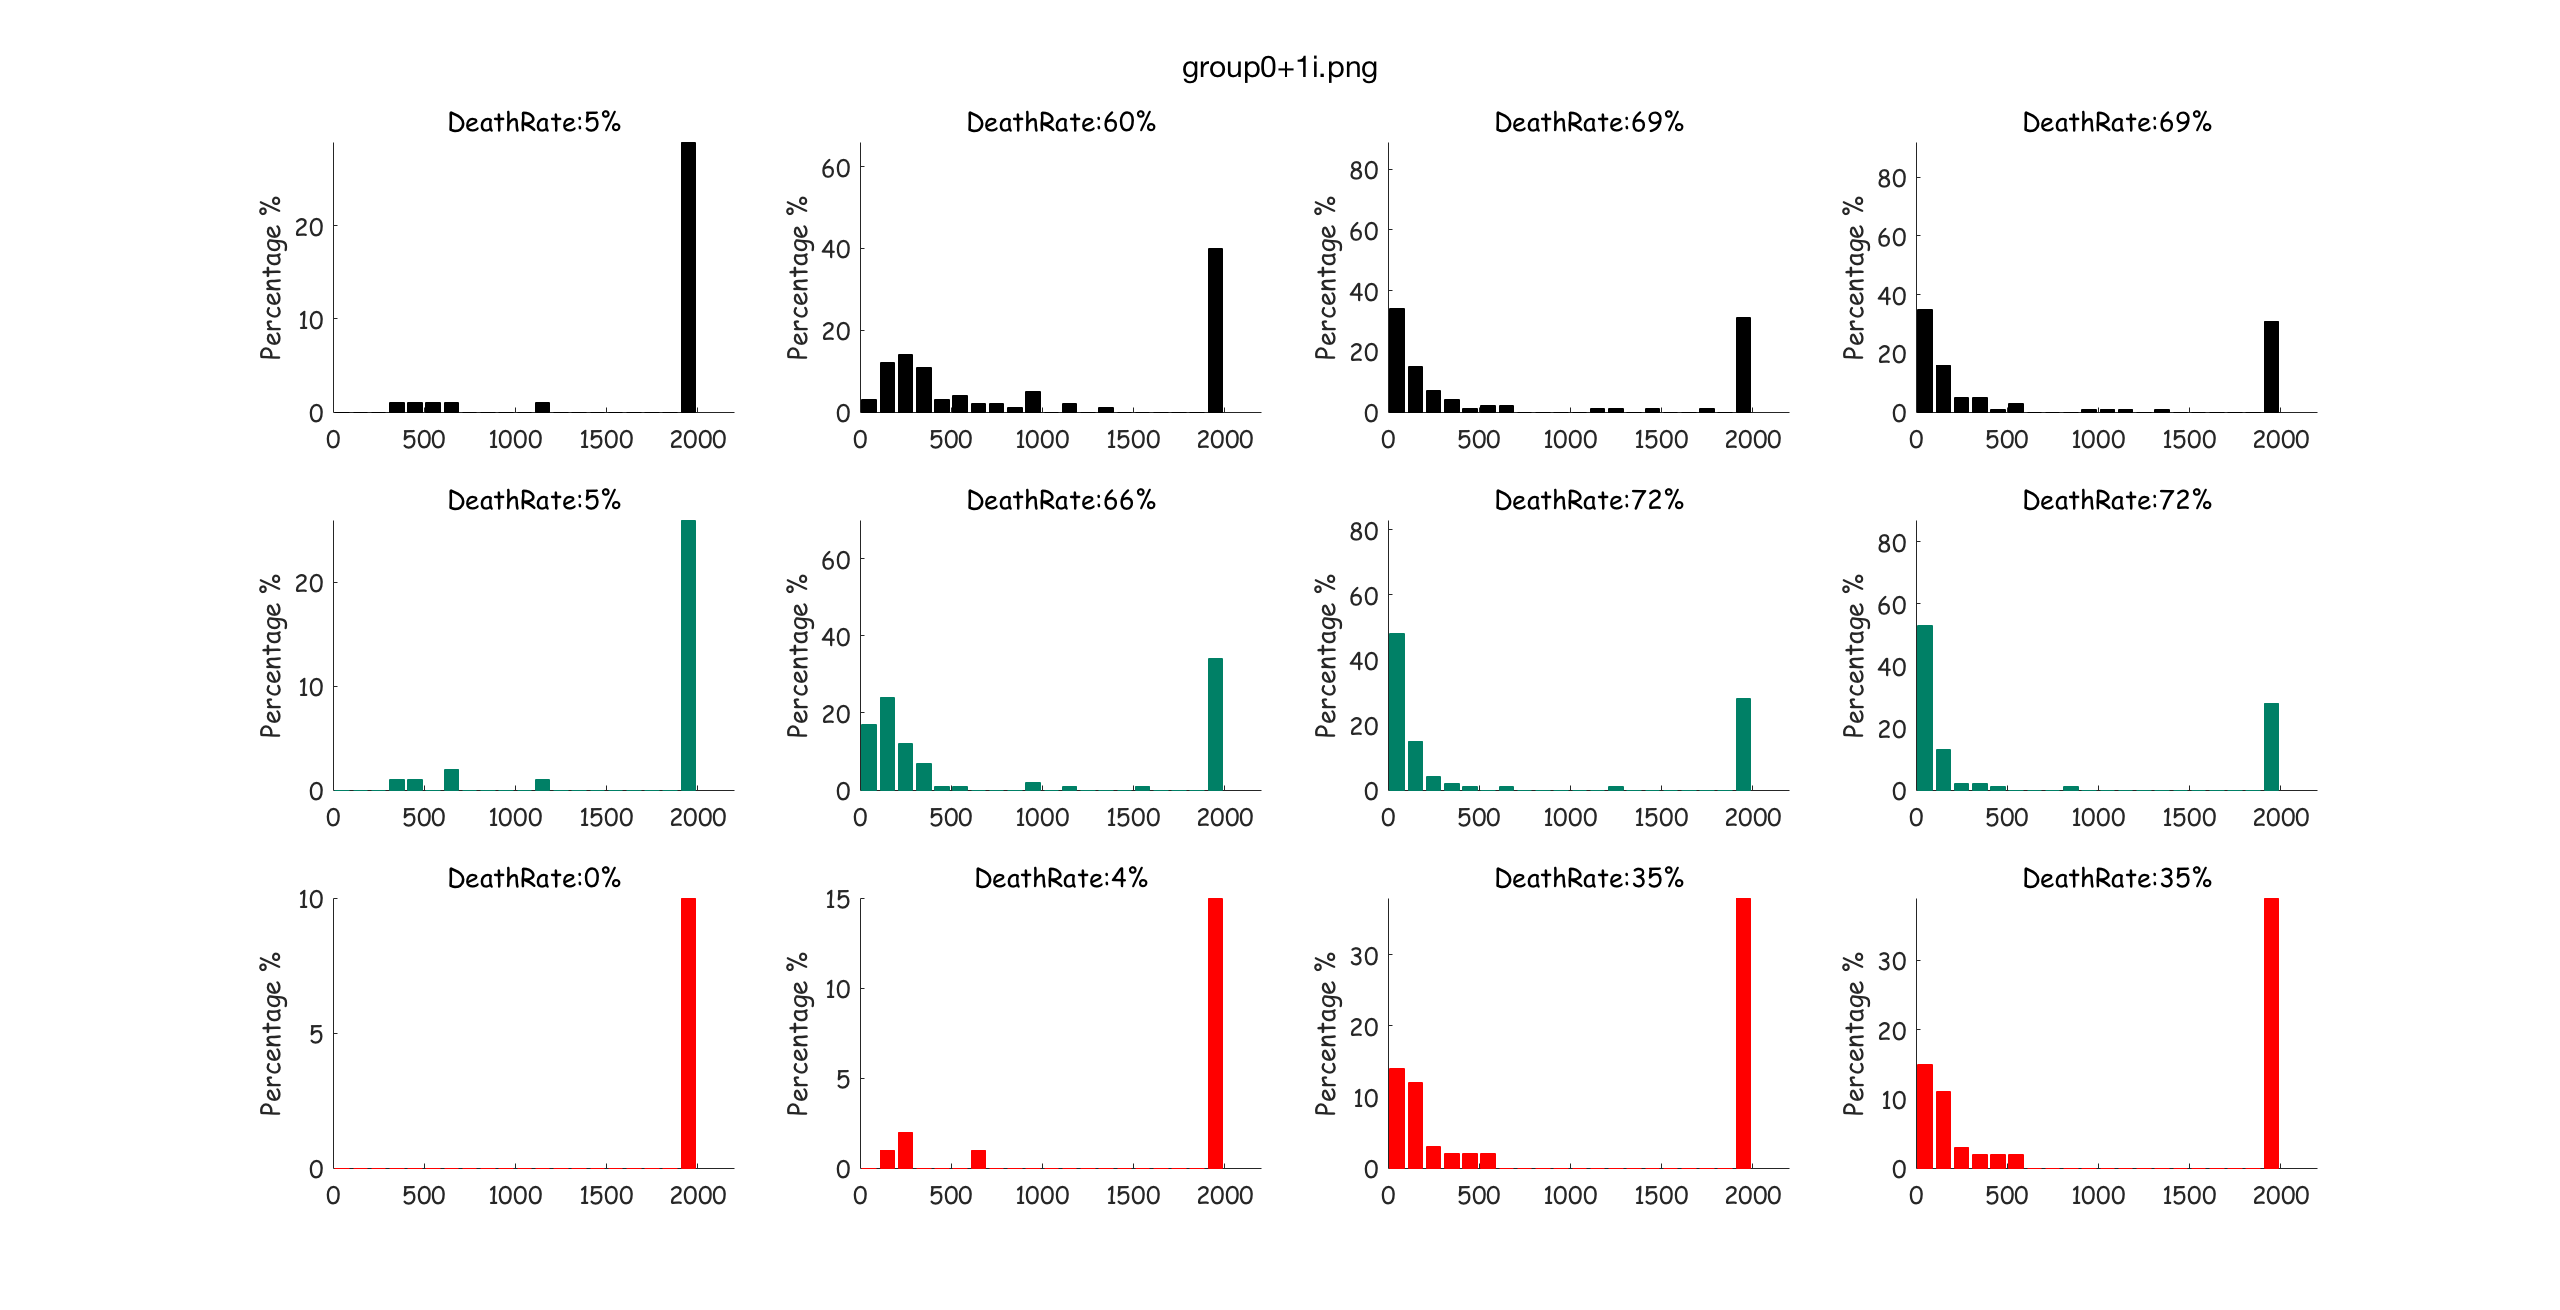
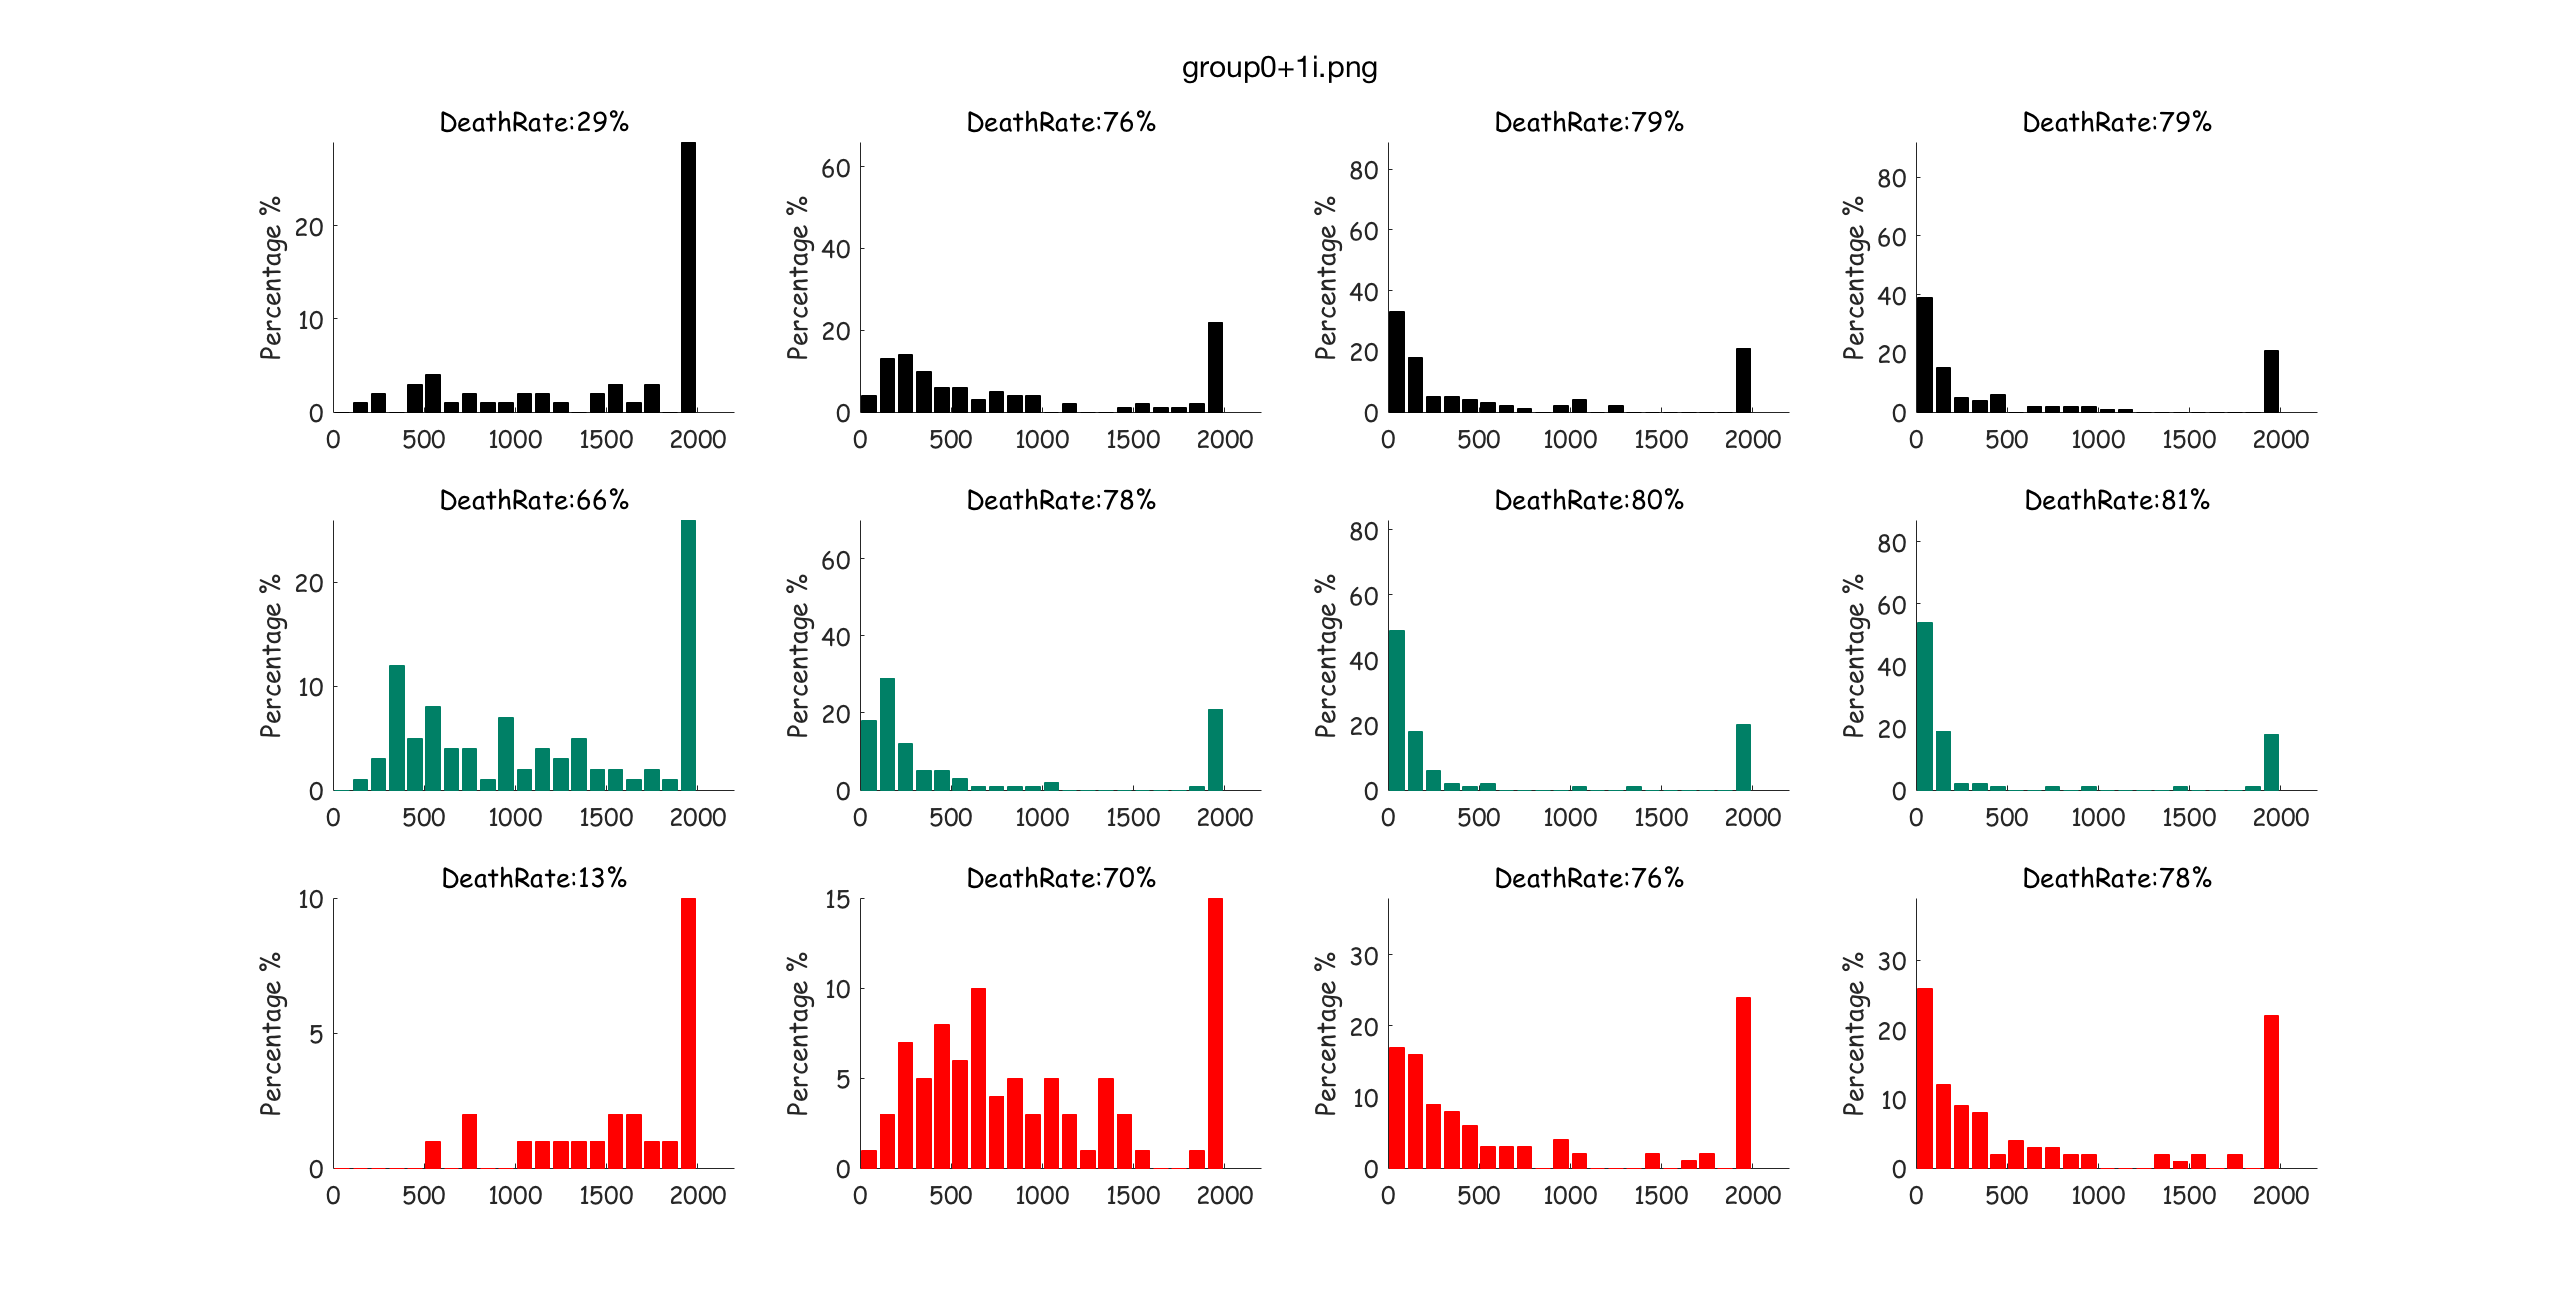
C9 C9star degadation and remeet

diff --git a/Distribution/aptosis.m b/Distribution/aptosis.m
@@ -1,7 +1,7 @@
 
 function dy = aptosis(t, y, flag, Params)
 
-dy = zeros(19,1);   
+dy = zeros(24,1);   
 
 
 
@@ -24,12 +24,21 @@ XIAP_cleave = y(15);
           S = y(16);  
        S_C3 = y(17); 
    S_Cleave = y(18);
+   
+   
    if t<0.1
     Inducer = 0;
    else
     Inducer = y(19);
    end   
 
+   C9m=y(20);
+   C9m_pC9=y(21);
+   C9starm=y(22);
+   C9starm_pC9=y(23);
+   C9m_C9starm=y(24);
+
+   
 %% --- Step3: Calculate Flux
 
       [A1,A2,A3] = ReactionFlux( pC3,     C9,  pC3_C9,     [],   [Params.a1,Params.a2,Params.a3]);
@@ -46,6 +55,32 @@ XIAP_cleave = y(15);
       [G1,G2,G3] = ReactionFlux(XIAP,     C3,  XIAP_C3,    [],   [Params.g1,Params.g2,Params.g3]);
       [H1,H2,H3] = ReactionFlux(   S,     C3,     S_C3,    [],   [Params.h1,Params.h2,Params.h3]);
 
+      
+     ka=1/500; 
+     kd=1/100;
+    
+      J1 = ka*pC9*C9m*Inducer;
+      J2 = kd*C9m_pC9;
+      
+          
+      K1 = ka*C9m*C9m*Inducer;
+      K2 = kd*C9;
+      
+      
+      L1 = ka*C9starm*pC9*Inducer;
+      L2 = kd*C9starm_pC9;
+      
+            
+      M1 = ka*C9starm*C9starm*Inducer;
+      M2 = kd*C9star;
+ 
+                  
+      N1 = ka*C9starm*C9m*Inducer;
+      N2 = kd*C9m_C9starm;
+      
+      
+      
+      
 %% --- Step4: Calculate derivate
 
 tau  = Params.tau;
@@ -59,11 +94,11 @@ slow = 1/240;
 %pC3_C9star
     dy(3) = B1-B2-B3;
 %C9
-    dy(4) = -A1+A2+A3+D1-E1+E2-F1+F2-fast*C9;
+    dy(4) = -A1+A2+A3+D1-E1+E2-F1+F2+K1-K2; %-fast*C9 
 %C3
     dy(5) = A3+B3-C_R1+C_R2-E1+E2+E3-G1+G2+G3-H1+H2+H3;
 %C9star
-    dy(6) = -B1+B2+B3+E3-slow*C9star;
+    dy(6) = -B1+B2+B3+E3+M1-M2;%-slow*C9star;
 %XIAP
     dy(7) = -C_R1+C_R2+C_R3-F1+F2+F3-G1+G2 + (Params.SR_XIAP-tau*XIAP);
 %C3_XIAP
@@ -73,7 +108,7 @@ slow = 1/240;
 %C3_Cleave
    dy(10) = C_R3;
 %pC9
-   dy(11)= -2*D1+2*D2+(Params.SR_C9-tau*pC9);
+   dy(11)= -2*D1+2*D2-J1+J2-L1+L2+(Params.SR_C9-tau*pC9);
 %C9_C3
    dy(12) = E1-E2-E3;
 %C9_XIAP
@@ -89,7 +124,19 @@ slow = 1/240;
 %S_Cleave
    dy(18) = H3;
 %I
-   dy(19) = (-D1-D2+F3)*1e-3;
+   dy(19) = (-D1+D2+F3-J1+J2-K1+K2-L1+L2-M1+M2-N1+N2)*1e-3;
+   
+   
+%C9m=y(20);
+   dy(20) = -J1+J2-2*K1+2*K2 -N1+N2 ;
+%C9m_pC9=y(21);
+   dy(21) = J1-J2;
+%C9starm=y(22);
+   dy(22) = -L1+L2-2*M1+2*M2 -N1+N2 ;
+%C9starm_pC9=y(23);
+   dy(23) = L1-L2;
+%C9m_C9starm=y(24);
+   dy(24) = N1-N2;   
 
 end
 

diff --git a/Distribution/Step2_DoitSame.m b/Distribution/Step2_DoitSame.m
@@ -80,7 +80,7 @@ function [Apotosis, Table]=TC(Inducers,InitialSpace,Params,n)
             parfor j=1:n
 
             %% Change pC9,pC3,XIAP initial concentration 
-                          INIt = zeros(1,19);
+                          INIt = zeros(1,24);
                           INIt(16) = 2000; 
                           INIt(19) = Params.Inducer; 
                      INIt([1,11,7]) = InitialSpace(j,1:3);

diff --git a/Distribution/A1_Control_Single.m b/Distribution/A1_Control_Single.m
@@ -3,7 +3,7 @@ clearvars -EXCEPT Params aaa
  
 %% -- Step1: Initaliaiton as inducer=0 stable solution.
 
-InducerSingle = 25e-2;
+InducerSingle = 25e-3;
 
 Params=Step1_ReactionConstants();
 
